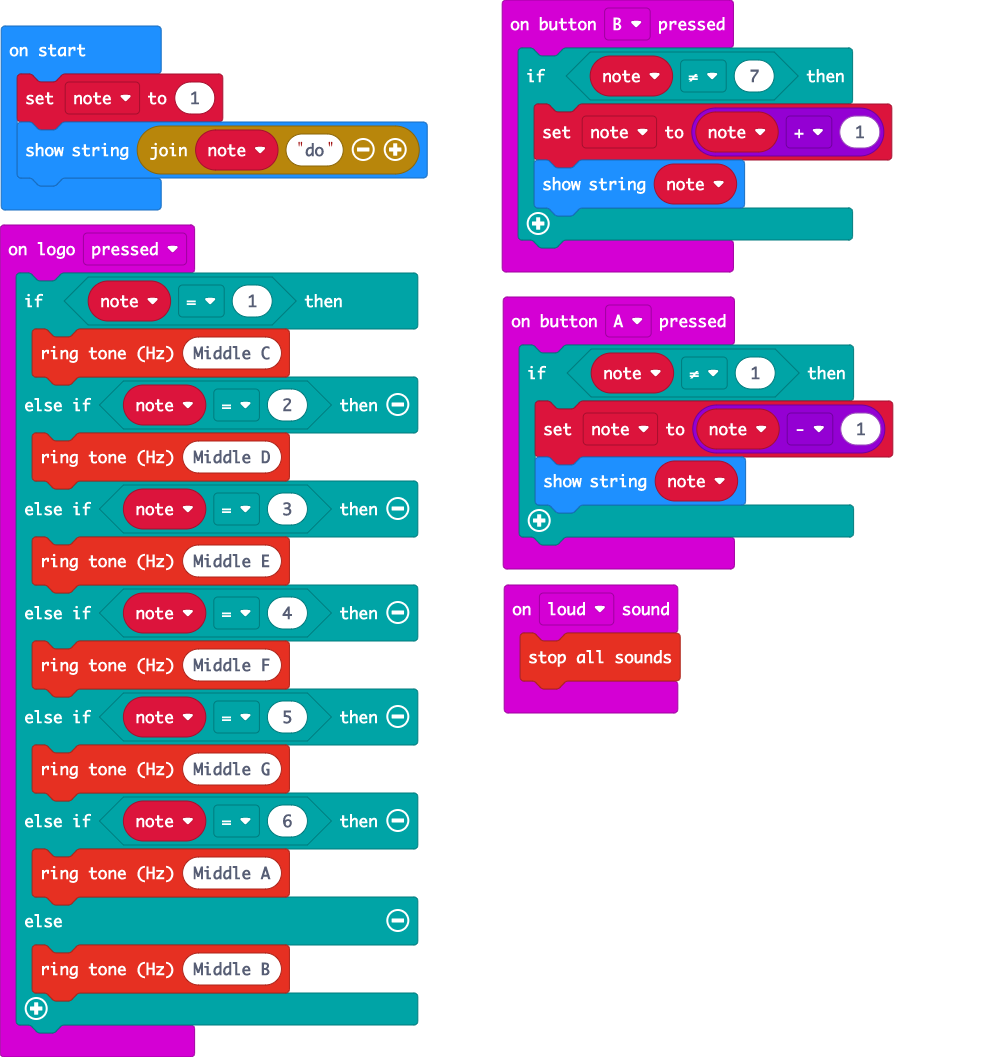
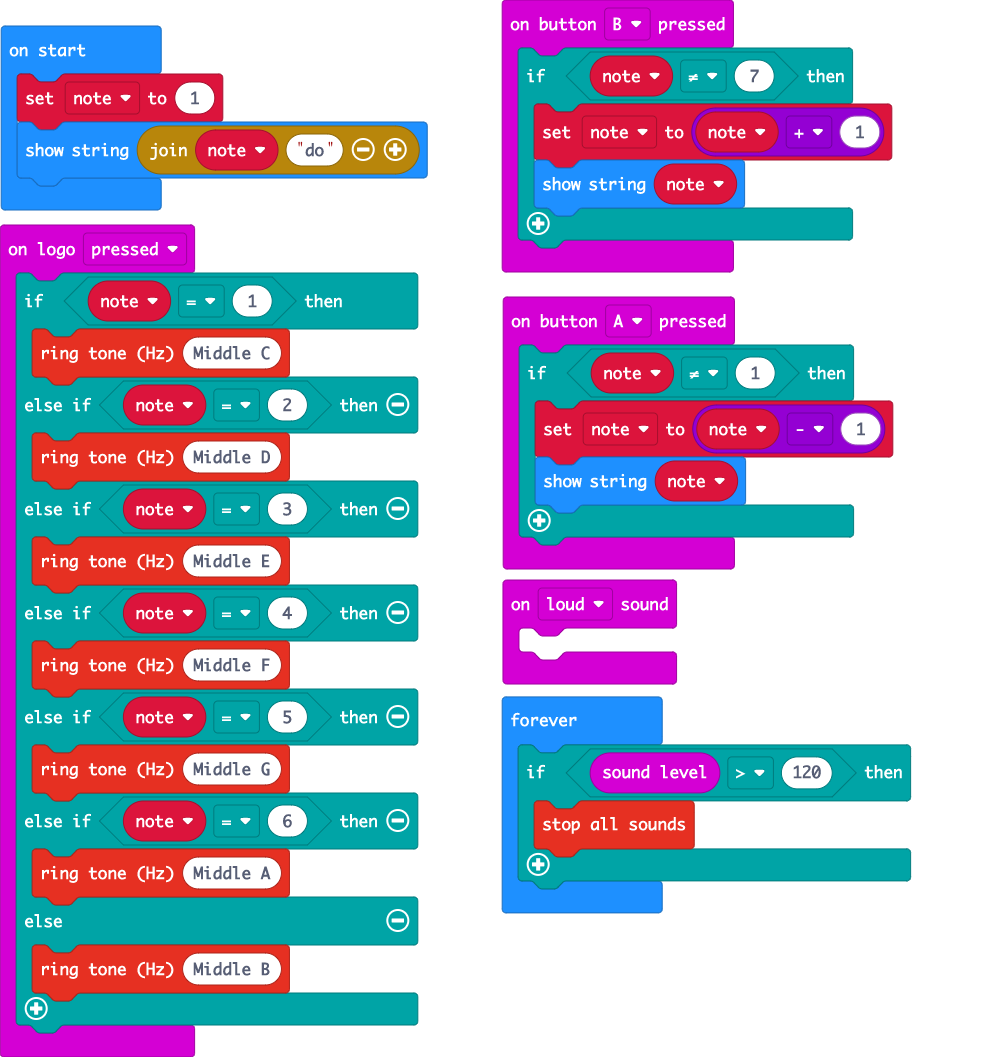
Custom set loud sound level so that pushing A/B buttons don't trigger it

Changed region(s): [[0.4975, 0.5307, 0.9328, 0.8742]]

diff --git a/main.ts b/main.ts
@@ -5,7 +5,7 @@ input.onButtonPressed(Button.A, function () {
     }
 })
 input.onSound(DetectedSound.Loud, function () {
-    music.stopAllSounds()
+	
 })
 input.onButtonPressed(Button.B, function () {
     if (note != 7) {
@@ -33,3 +33,8 @@ input.onLogoEvent(TouchButtonEvent.Pressed, function () {
 let note = 0
 note = 1
 basic.showString("" + note + "do")
+basic.forever(function () {
+    if (input.soundLevel() > 120) {
+        music.stopAllSounds()
+    }
+})
